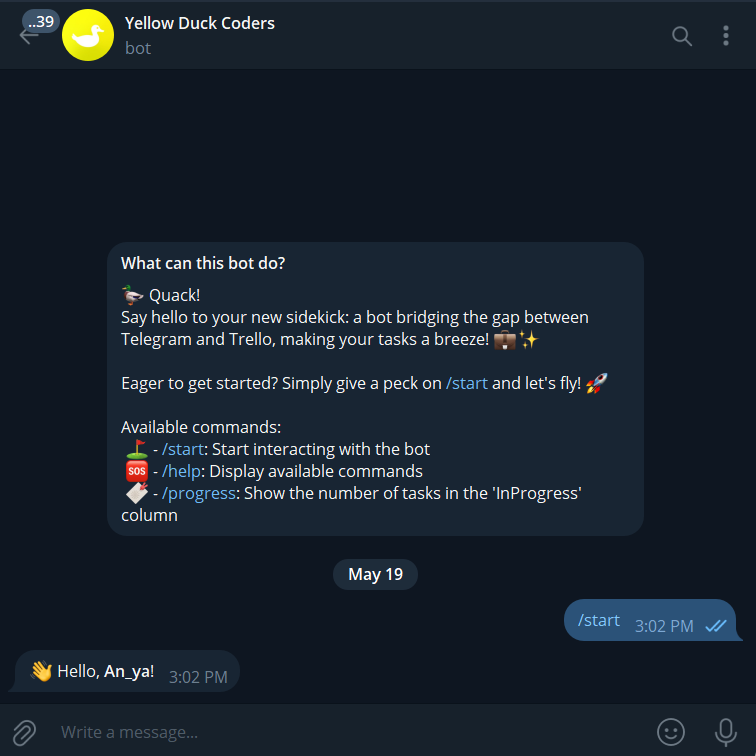
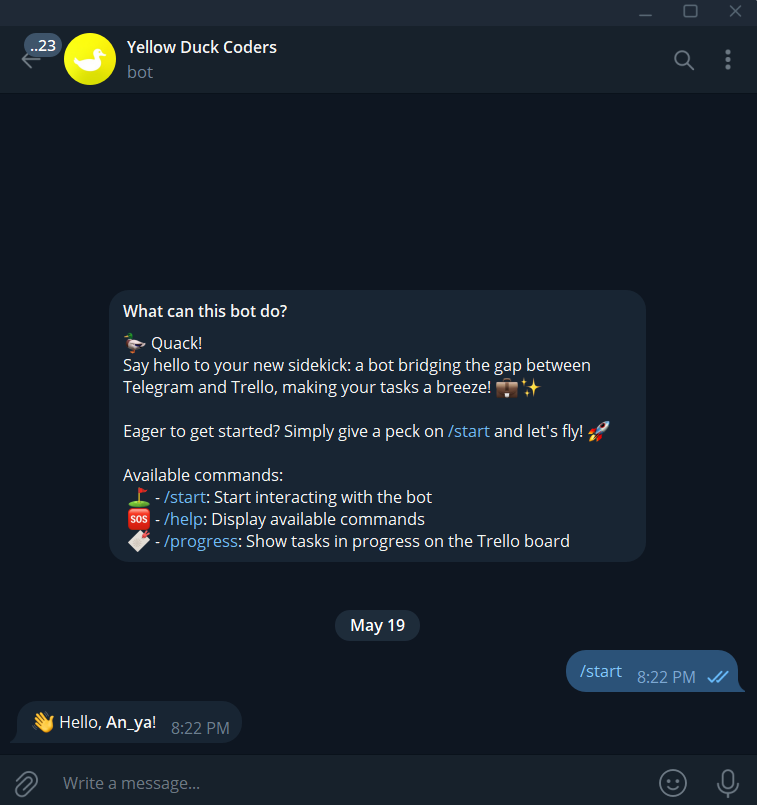
update bot answers and readme

diff --git a/main.py b/main.py
@@ -26,32 +26,24 @@ async def main():
 
     :return: None
     """
-
     logging.basicConfig(level=logging.INFO, stream=sys.stdout)
     app = setup_webhook()
     runner = web.AppRunner(app)
     await runner.setup()
-    site = web.TCPSite(runner, host="0.0.0.0", port=3009)
+    site = web.TCPSite(runner, host="0.0.0.0", port=8080)
     await site.start()
     logger.info("Webhook server started")
 
-    # board_id = await setup_trello_board()
-    # config.BORD_ID = board_id
-    # logger.info(f"Set global BORD_ID to {config.BORD_ID}")
-    try:
-        board_id = await setup_trello_board()
-        config.BORD_ID = board_id
-        logger.info(f"Set global BORD_ID to {config.BORD_ID}")
-    except Exception as ex_:
-        logger.info(f"Board already exists, skipping creation. Board ID: {config.BORD_ID}")
+    board_id = await setup_trello_board()
+    config.BORD_ID = board_id
+    logger.info(f"Set global BORD_ID to {config.BORD_ID}")
 
     async with aiohttp.ClientSession() as session:
         response = await set_trello_webhook(session, config.BORD_ID)
         if response.status == 200:
             logger.info("Webhook created successfully")
         else:
-            # response_text = await response.read()
-            logger.info("Error creating webhook")
+            logger.info("Webhook is already set")
 
 
 if __name__ == "__main__":

diff --git a/bot_app/bot_config/bot_handlers.py b/bot_app/bot_config/bot_handlers.py
@@ -41,9 +41,10 @@ async def cmd_start(message: Message):
 async def cmd_help(message: Message):
     help_message = """
     Available commands:
+    
     ⛳ - /start: Start interacting with the bot
     🆘 - /help: Display available commands 
-    🔖 - /progress: Show the number of tasks in the 'InProgress' column 
+    🔖 - /progress: Show tasks in progress 
     """
     await message.answer(help_message)
 
@@ -56,10 +57,10 @@ async def cmd_progress(message: Message):
         if list_id:
             cards = await get_in_progress_tasks_count(list_id)
             if cards:
-                card_list = "\n".join([f"- {card['name']}" for card in cards])
+                card_list = "\n".join([f"⇨ {card['name']}" for card in cards])
                 await message.answer(
-                    f"There are {len(cards)} tasks in the 'InProgress' column:\n{card_list}",
+                    f"<b>📝 In Progress: {len(cards)}</b>\n\n<code>{card_list}</code>",
                     parse_mode=ParseMode.HTML
                 )
             else:
-                await message.answer("There are no tasks in the 'InProgress' column.")
+                await message.answer("<b>There are no tasks in the 'InProgress' column 🙂</b>")

diff --git a/bot_app/webhook_config/set_trello_webhook.py b/bot_app/webhook_config/set_trello_webhook.py
@@ -76,17 +76,17 @@ async def handle_trello_webhook(request):
         member_creator = data["action"]["memberCreator"]["fullName"]
 
         message = (f"***<b>New action on Trello</b>***\n\n"
-                   f"<b>Type:</b>  {action_type}\n"
-                   f"<b>Card:</b>  {card_name}\n"
-                   f"<b>Board:</b> {board_name}\n"
-                   f"<b>By:</b>    {member_creator}\n\n")
+                   f"<code>TYPE:  {action_type}\n"
+                   f"CARD:  {card_name}\n"
+                   f"BOARD: {board_name}\n"
+                   f"BY:    {member_creator}\n\n</code>")
 
         if list_before and list_after:
-            message += f"<b>FROM:</b> {list_before}\n<b>TO:</b> {list_after}\n"
+            message += f"<code>FROM: {list_before}\nTO: {list_after}\n</code>"
         elif list_before:
-            message += f"<b>Previous list :</b> {list_before}\n"
+            message += f"<code>Previous list : {list_before}\n</code>"
         elif list_after:
-            message += f"<b>New list :</b> {list_after}\n"
+            message += f"<code>New list : {list_after}\n</code>"
 
         async with aiohttp.ClientSession() as session:
             await bot.send_message(

diff --git a/README.md b/README.md
@@ -13,6 +13,15 @@ Utilizing webhooks, YDC-TG_BOT ensures real-time updates between your Telegram b
 * Utilizes webhooks to notify when users interact with cards.
 * Provides functionality to view the number of tasks in progress and the list of tasks.
 
+## Tools and Technologies Used
+
+* Programming language: `Python`
+* Telegram bot: `aiogram`
+* Database, db connection: `PostgreSQL`, `asyncpg`
+* Environment variable management: `python-dotenv`
+* HTTP requests: `aiohttp`
+* Board management: `Trello API`
+
 ## Installation
 
 1. Clone the repository:
@@ -74,11 +83,3 @@ python main.py
 4. As users interact with the Trello cards, the bot will notify about the interactions.
 
 ![img_1.png](img_1.png)
-
-## Tools and Technologies Used
-
-* Programming language: `Python`
-* Telegram bot: `aiogram`
-* Database, db connection: `PostgreSQL`, `asyncpg`
-* Environment variable management: `python-dotenv`
-* HTTP requests: `aiohttp`
